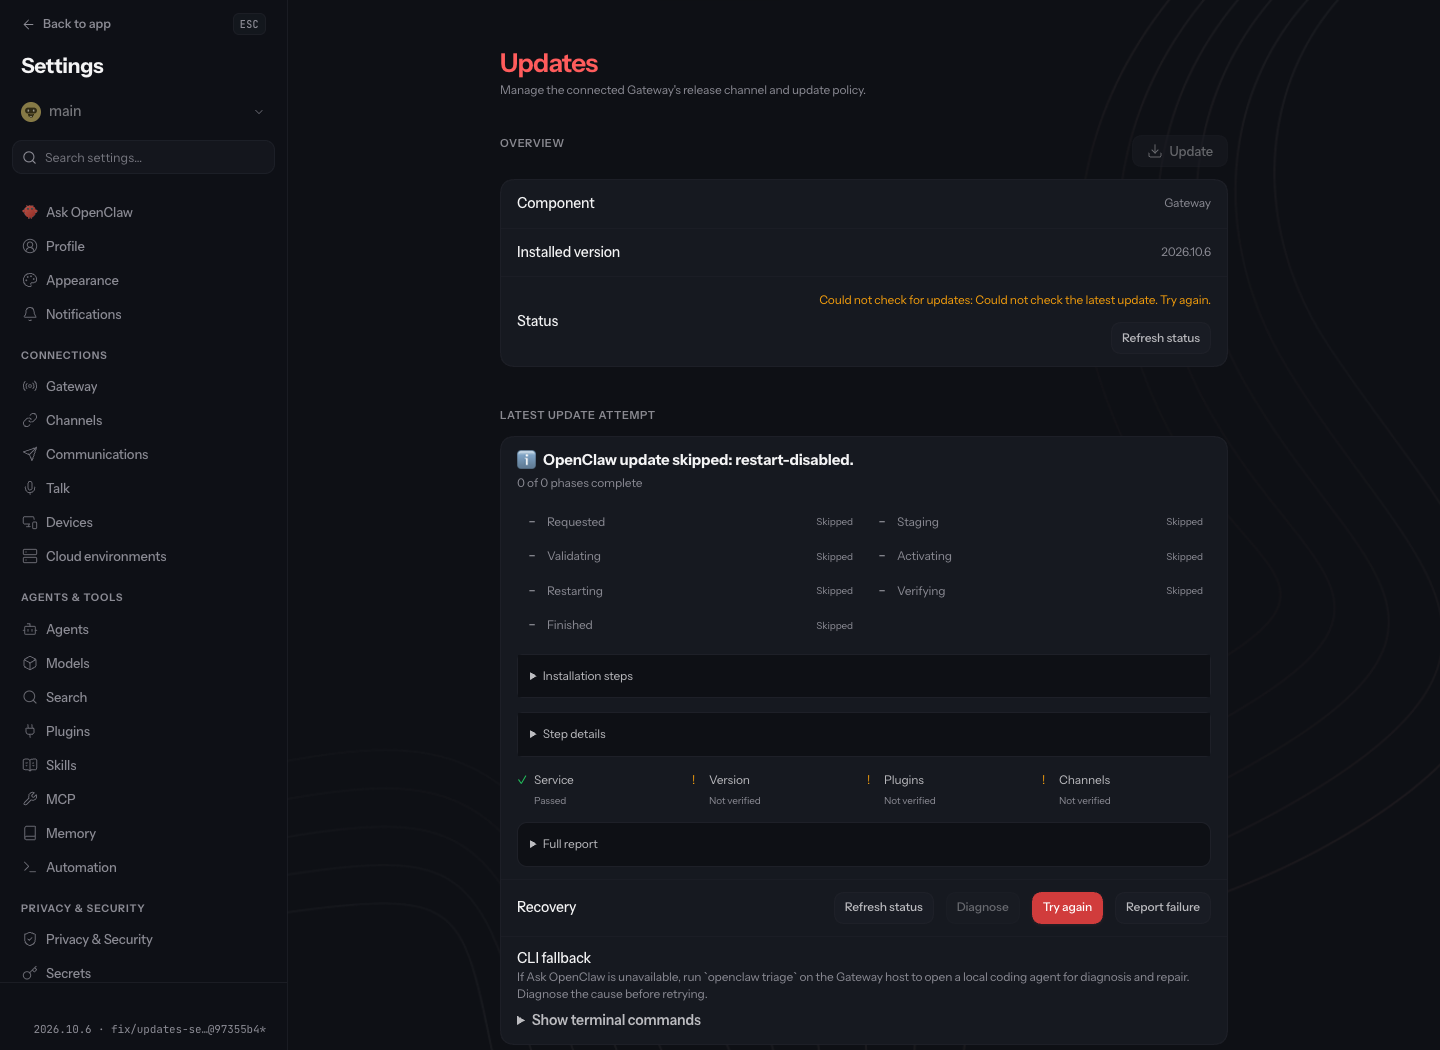
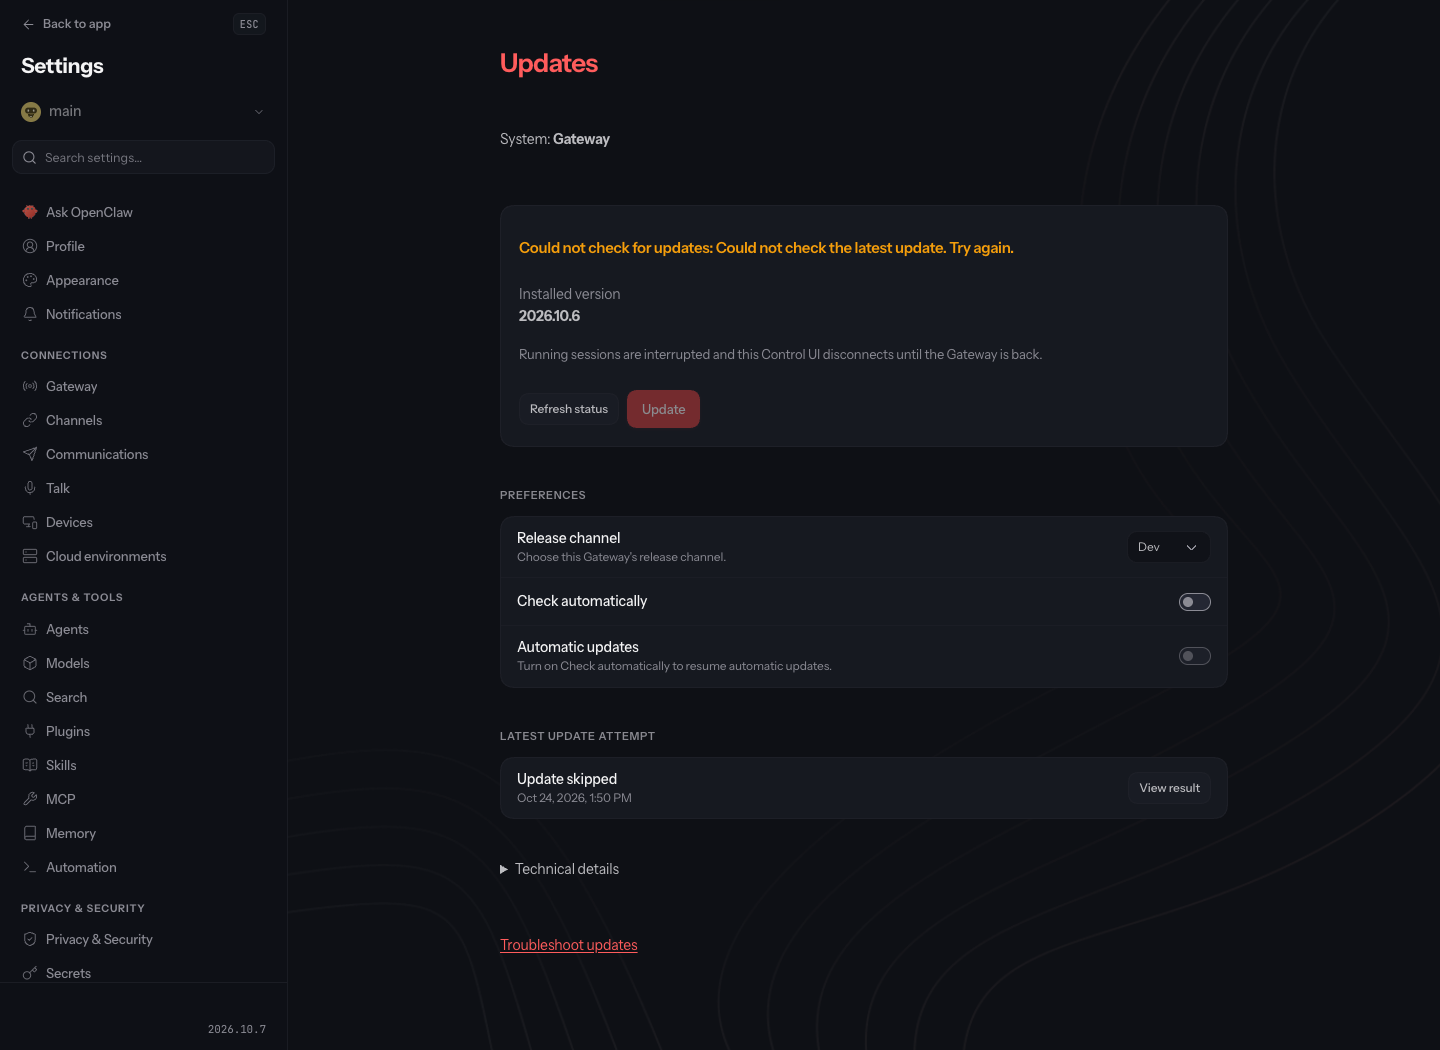
docs: replace rejected update UI proof with corrected captures

diff --git a/README.md b/README.md
@@ -1,33 +1,30 @@
-# Updates UI review evidence
+# Updates UI correction evidence
 
-Product source: `97355b465fd7920e3dc8c0ee64592f85339b2cfc`. Baseline: `75ac398c5f8248c16cd92c263834bdf2f94dc43a`. This is a proof-only branch, not an installable OpenClaw release or part of the product PR.
+Source candidate: `56cce017b066ed3751fab038c68917919ba96264`. This proof-only branch is not an installable release or part of the product diff.
 
-## Setup and limits
+## Capture boundaries
 
-Desktop and narrow captures use the production UI build with a real isolated loopback Gateway, no production credentials/plugins/channels, and restart disabled. The retained refusal is intentional; no update installation ran. The isolated Git checkout cannot discover its update target, so its visible check error is genuine.
+Before: isolated Gateway at75ac398c5f8248c16cd92c263834bdf2f94dc43a. After/mobile: corrected production UI served by a real credential-free isolated loopback Gateway. The genuine update-target check error and retained restart-disabled refusal are shown; no installation ran. These captures precede the final sidebar-only callback dedup and test-conflict rebase; no captured component layout changed.
 
-Failure screenshot: deterministic mocked Gateway, failed staging, four visible recovery actions; unavailable actions are disabled by the fixture permissions. Apps screenshot: deterministic native bridge fixture, existing check/download policy only. Neither proves native installation or a model-backed diagnosis.
+Available/failure/narrow failure: actual production-component renders against deterministic Gateway fixtures. Apps: deterministic native bridge fixture. Disabled recovery actions reflect fixture permissions. These do not establish native installation or model-backed diagnosis. Gateway/Apps styling reuses existing UI primitives; unsupported remote inventory and native installation policy are deliberately not simulated.
 
-All24 affected browser scenarios passed across scoped runs; final committed-head confirmation rerun14/14. Focused tests, UI types, changed-file lint/format, stylesheet lint, keyless i18n and UI build passed. Equal-inventory base/head gzip: startup282279/282298 (+19B, within64B build variance); chat1277371/1277370 (-1B). Absolute base budget warnings remain.
+The current browser tests exercise report preview and browser handoff, diagnosis, retained attempts and absence of unintended update calls. Independent visual/source re-review accepted the corrected compact card, preference ordering, single outcome title and two terminal disclosure groups.
 
-The build's dirty marker came from pnpm's incidental lock metadata; product UI source matches the commit and that lock change is excluded. Main was checked for overlapping update-path changes before publication.
+## Before
+![Before](before.png)
+## Corrected real Gateway
+![Corrected real Gateway](after.png)
+## Available update fixture
+![Available](available.png)
+## Failure fixture
+![Failure](failure.png)
+## Narrow failure fixture
+![Narrow failure](failure-mobile.png)
+## Apps fixture
+![Apps](apps.png)
+## Narrow real Gateway
+![Mobile](mobile.png)
 
-## before.png
+## Validation
 
-![before.png](before.png)
-
-## after.png
-
-![after.png](after.png)
-
-## mobile.png
-
-![mobile.png](mobile.png)
-
-## failure.png
-
-![failure.png](failure.png)
-
-## apps.png
-
-![apps.png](apps.png)
+Final-base production UI typecheck passes. Ten affected browser scenarios pass across the rebase run and one targeted selector-fix rerun. Previously frozen source:78 focused unit tests and11 report/diagnosis browser scenarios pass. Final-base performance passes: chat startup1273935→1273858B gzip (−77B), CSS+62B raw/+15B gzip, budgets unchanged. No full-repository test pass or hosted-CI readiness is claimed here.
